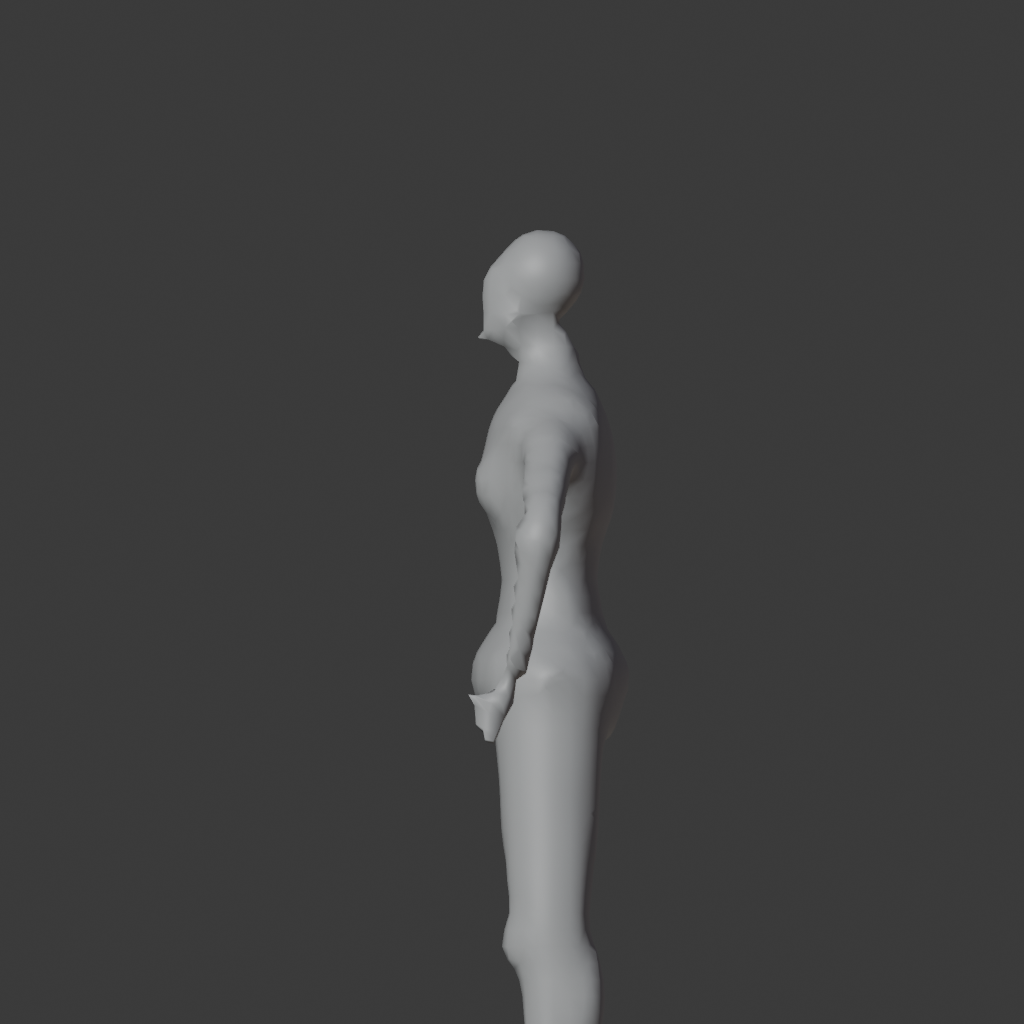
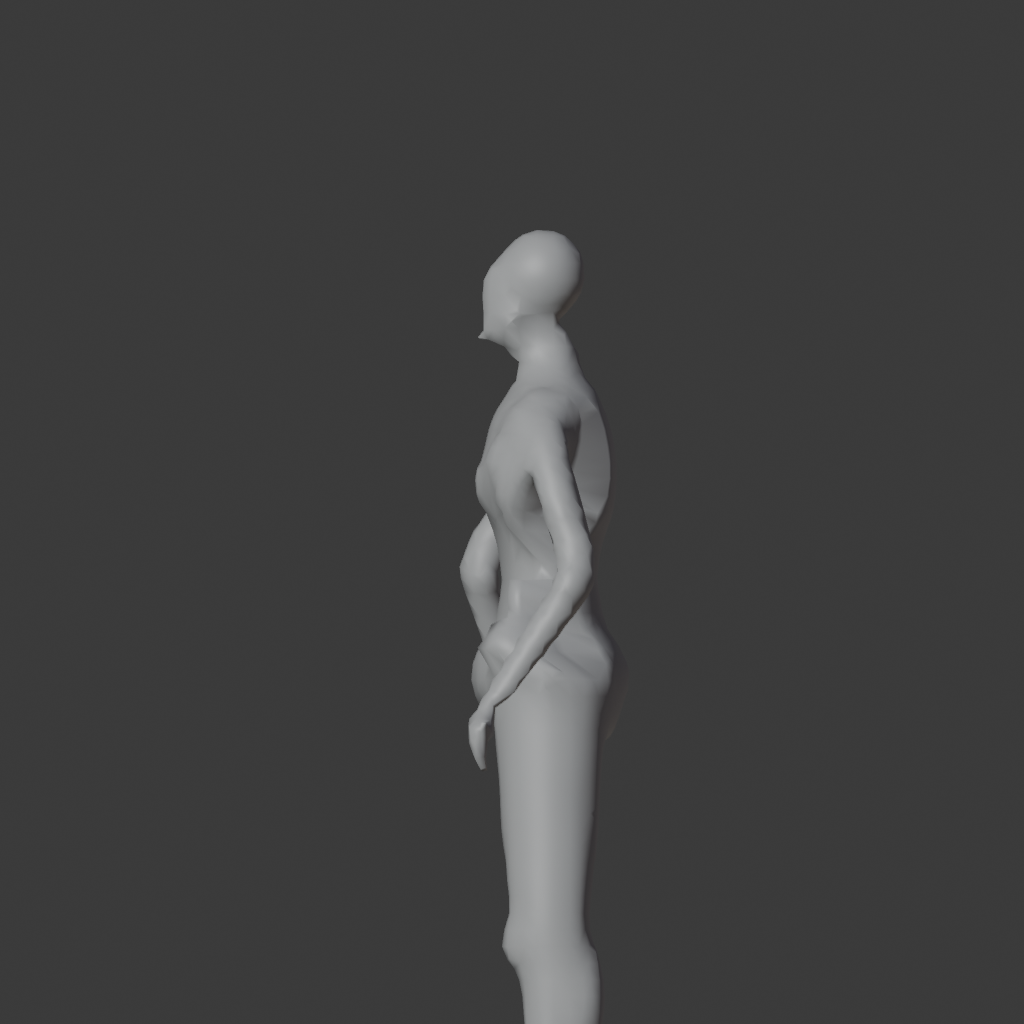
evidence: verify sources and solve arms with controlled IK

Changed region(s): [[0.4375, 0.375, 0.5938, 0.75]]

diff --git a/tools/render_character_evidence.py b/tools/render_character_evidence.py
@@ -14,11 +14,12 @@ def run(g):
  for view,loc,rot in [('front',(0,-5.5,1.35),(math.radians(90),0,0)),('side',(5.5,0,1.35),(math.radians(90),0,math.radians(90)))]:
   bpy.ops.object.camera_add(location=loc,rotation=rot); c=bpy.context.object; c.data.type='ORTHO'; c.data.ortho_scale=2.15; bpy.context.scene.camera=c; bpy.context.view_layer.update(); s=bpy.context.scene; s.render.engine='BLENDER_WORKBENCH'; s.display.shading.light='STUDIO'; s.display.shading.color_type='SINGLE'; s.display.shading.single_color=(.82,.82,.82); s.render.resolution_x=s.render.resolution_y=1024; s.render.filepath=os.path.join(OUT,f'{g.lower()}_rest_diagnostic_{view}.png'); bpy.ops.render.render(write_still=True); bpy.data.objects.remove(c,do_unlink=True)
  for side,b in ((-1,'l'),(1,'r')):
-  bpy.ops.object.empty_add(type='PLAIN_AXES',location=(side*.43,-.02,.93)); target=bpy.context.object; target.name='EvidenceHandTarget_'+b
-  con=r.pose.bones['hand_'+b].constraints.new('IK'); con.name='EvidenceArmsDownIK'; con.target=target; con.chain_count=3
+  bpy.ops.object.empty_add(type='PLAIN_AXES',location=(side*.40,-.01,.98)); target=bpy.context.object; target.name='EvidenceWristTarget_'+b
+  bpy.ops.object.empty_add(type='PLAIN_AXES',location=(side*.62,.12,1.24)); pole=bpy.context.object; pole.name='EvidenceElbowPole_'+b
+  con=r.pose.bones['forearm_'+b].constraints.new('IK'); con.name='EvidenceArmsDownIK'; con.target=target; con.pole_target=pole; con.pole_angle=0.0; con.chain_count=2
  for view,loc,rot in [('front',(0,-5.5,1.35),(math.radians(90),0,0)),('side',(5.5,0,1.35),(math.radians(90),0,math.radians(90)))]:
   bpy.ops.object.camera_add(location=loc,rotation=rot); c=bpy.context.object; c.data.type='ORTHO'; c.data.ortho_scale=2.15; bpy.context.scene.camera=c; bpy.context.view_layer.update(); s=bpy.context.scene; s.render.engine='BLENDER_WORKBENCH'; s.display.shading.light='STUDIO'; s.display.shading.color_type='SINGLE'; s.display.shading.single_color=(.82,.82,.82); s.render.resolution_x=s.render.resolution_y=1024; s.render.filepath=os.path.join(OUT,f'{g.lower()}_armsdown_{view}.png'); bpy.ops.render.render(write_still=True); bpy.data.objects.remove(c,do_unlink=True)
  for o in list(bpy.data.objects):
-  if o.name.startswith('EvidenceHandTarget_'): bpy.data.objects.remove(o,do_unlink=True)
+  if o.name.startswith('EvidenceWristTarget_') or o.name.startswith('EvidenceElbowPole_'): bpy.data.objects.remove(o,do_unlink=True)
  bpy.data.objects.remove(m,do_unlink=True); bpy.data.objects.remove(r,do_unlink=True)
 run('Male'); run('Female')

diff --git a/tools/generate_character_reference_evidence.py b/tools/generate_character_reference_evidence.py
@@ -6,6 +6,7 @@ modified by this utility.
 """
 from pathlib import Path
 from PIL import Image, ImageFilter
+import hashlib, re
 
 ROOT = Path(__file__).resolve().parents[1]
 OUT = ROOT / "docs/character_visuals/final_comparison"
@@ -17,6 +18,18 @@ BOXES = {
     ("male", "front"): (24, 12, 100, 140), ("male", "side"): (45, 140, 92, 278),
     ("female", "front"): (30, 12, 122, 142), ("female", "side"): (55, 143, 100, 282),
 }
+
+manifest = ROOT / "docs/character_visuals/reference_inputs/SHA256SUMS.txt"
+if not manifest.exists(): raise SystemExit("FAIL: missing SHA256SUMS.txt")
+expected = {}
+for line in manifest.read_text(encoding="utf-8").splitlines():
+    parts=line.split()
+    if len(parts)!=2 or not re.fullmatch(r"[0-9A-Fa-f]{64}",parts[0]): raise SystemExit(f"FAIL: malformed manifest line: {line!r}")
+    expected[parts[1]]=parts[0].lower()
+for name,path in (("male_source.png",SOURCES["male"]),("female_source.png",SOURCES["female"])):
+    if name not in expected or not path.is_file(): raise SystemExit(f"FAIL: missing manifest entry or source: {name}")
+    actual=hashlib.sha256(path.read_bytes()).hexdigest()
+    if actual != expected[name]: raise SystemExit(f"FAIL: SHA-256 mismatch for {name}")
 
 def components(mask):
     px, w, h = mask.load(), mask.width, mask.height; seen=set(); out=[]
